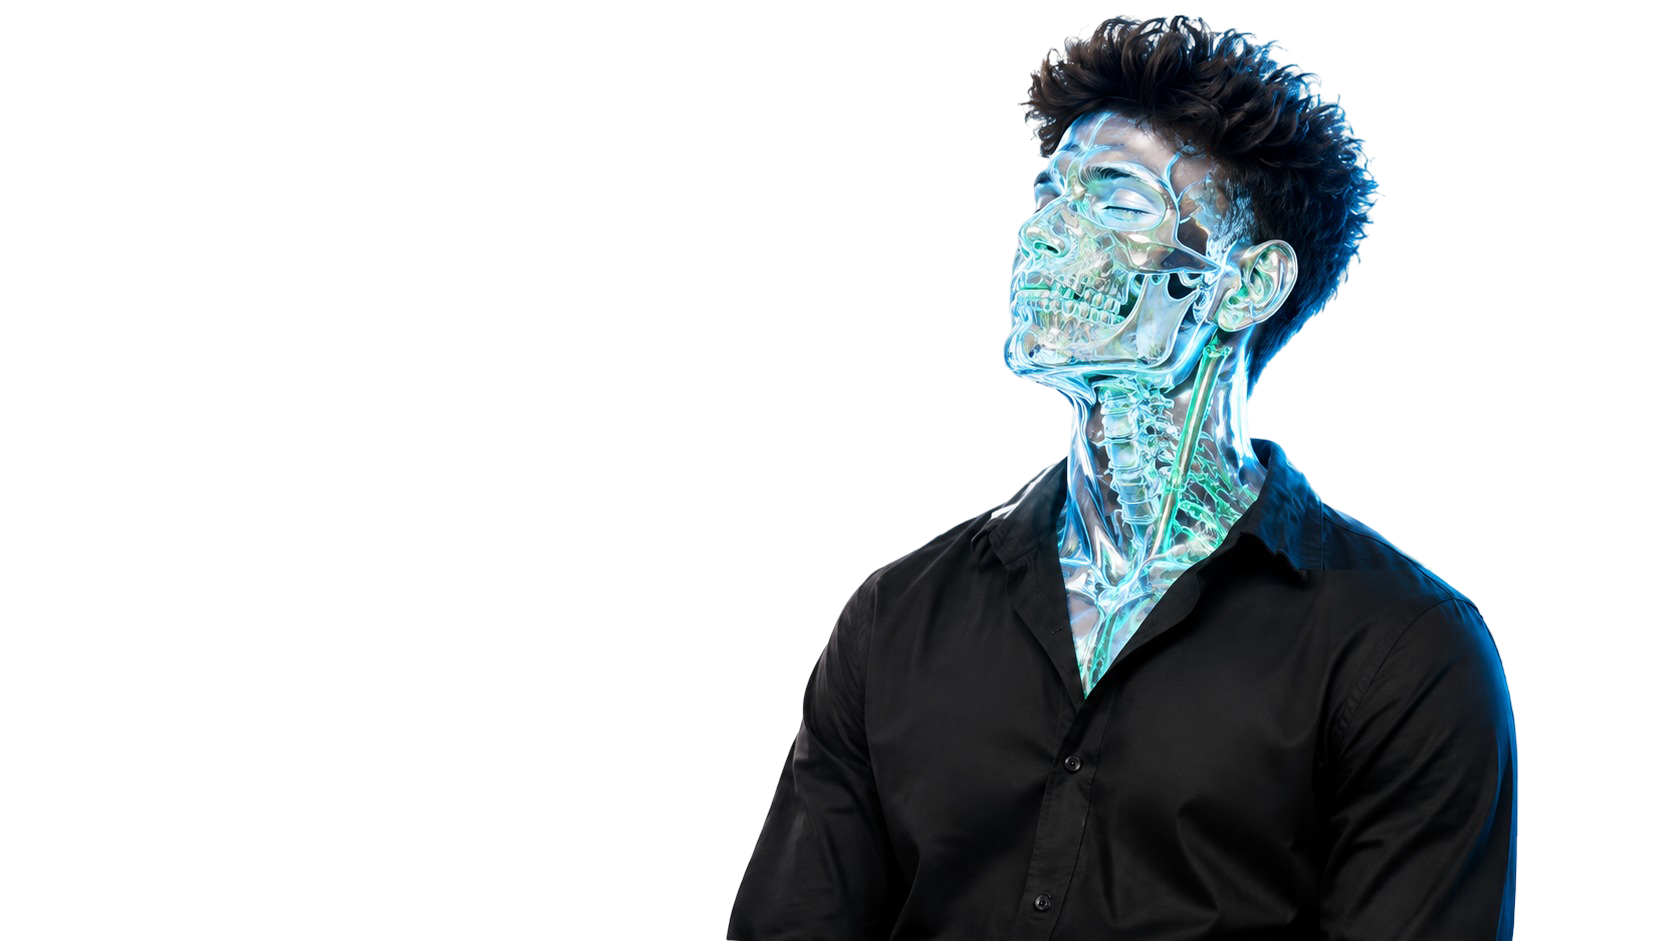
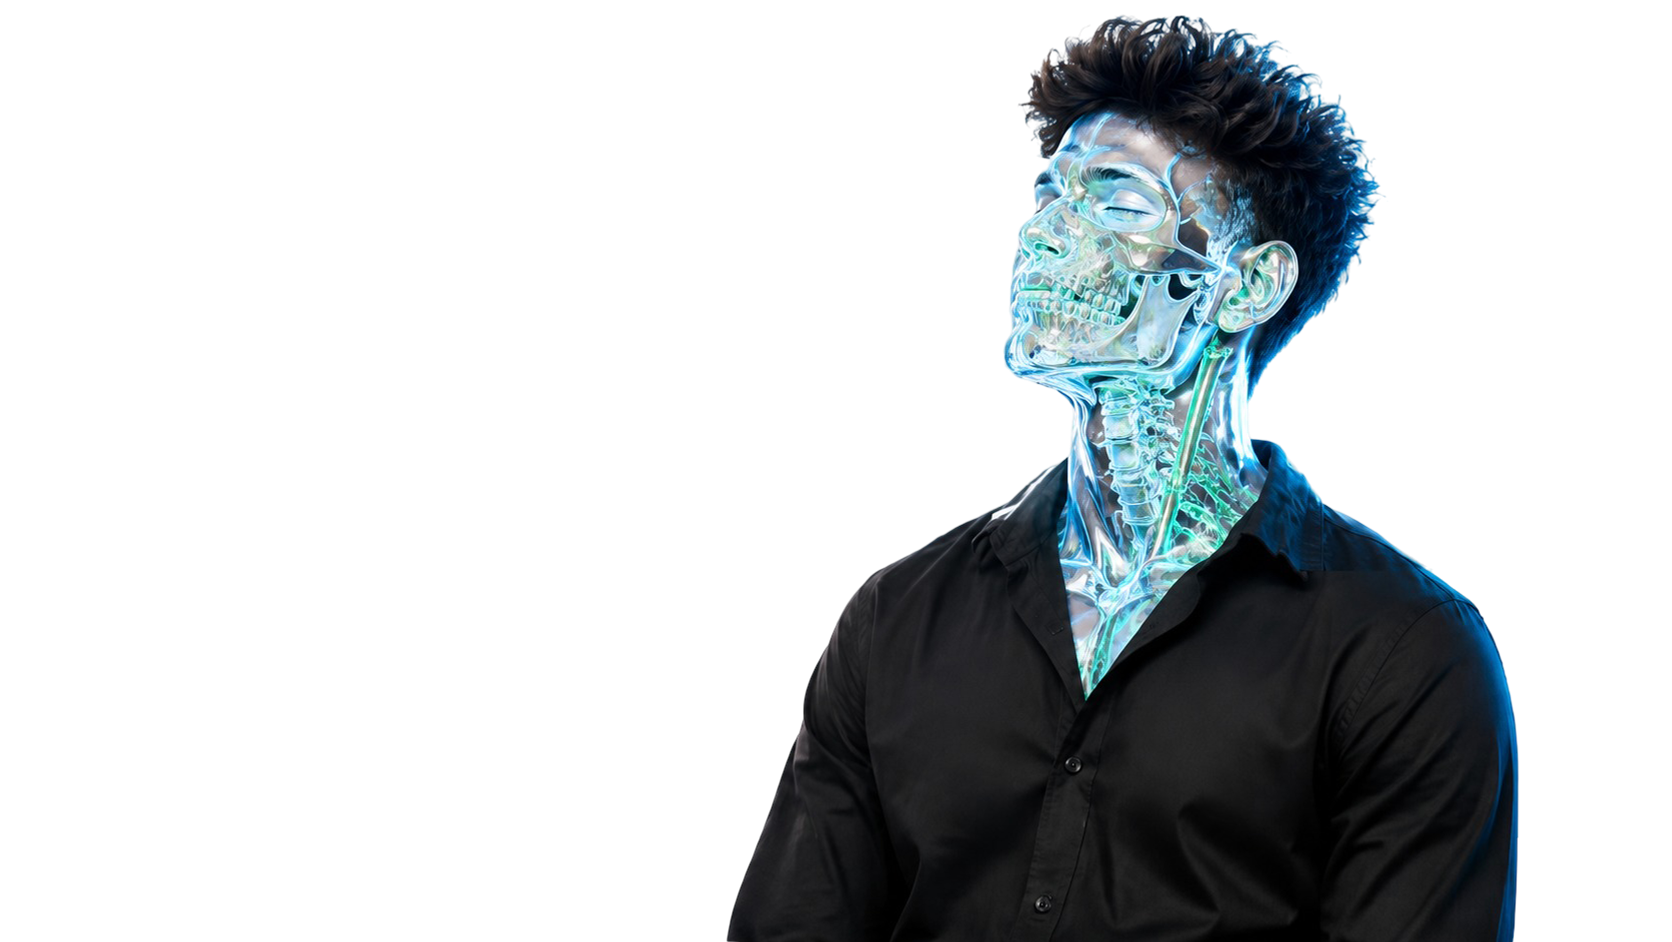
fix: use imdad_logo.png in header and fix 1px height discrepancy between reveal and base images

diff --git a/components/glass-hero.tsx b/components/glass-hero.tsx
@@ -254,33 +254,16 @@ export default function GlassHero() {
         }}
       >
         <nav className="flex items-center justify-between w-full max-w-[1720px] mx-auto">
-          {/* Brand Mark & Name */}
+          {/* Brand Logo Image */}
           <a
             href="#"
-            className="flex items-center gap-2.5 group focus-visible:outline-2 focus-visible:outline-offset-2 focus-visible:outline-black rounded-lg min-h-[44px] px-1"
+            className="flex items-center gap-2 group focus-visible:outline-2 focus-visible:outline-offset-2 focus-visible:outline-black rounded-lg min-h-[44px]"
           >
-            {/* Original Angular Inline-SVG "I" Mark */}
-            <svg
-              width="24"
-              height="24"
-              viewBox="0 0 24 24"
-              fill="none"
-              xmlns="http://www.w3.org/2000/svg"
-              className="w-6 h-6 text-[#0d1520] transition-transform duration-300 group-hover:scale-110"
-              aria-hidden="true"
-            >
-              <path
-                d="M4 2H16L20 6V22H8L4 18V2Z"
-                fill="currentColor"
-              />
-              <path
-                d="M9 6.5H14.5V17.5H9V6.5Z"
-                fill="#dce7f0"
-              />
-            </svg>
-            <span className="font-semibold text-lg sm:text-xl tracking-tight text-[#0d1520]">
-              Imdad
-            </span>
+            <img
+              src="/images/imdad_logo.png"
+              alt="Imdad"
+              className="h-7 sm:h-8 w-auto object-contain transition-transform duration-300 group-hover:scale-105"
+            />
           </a>
 
           {/* Desktop Navigation Links */}